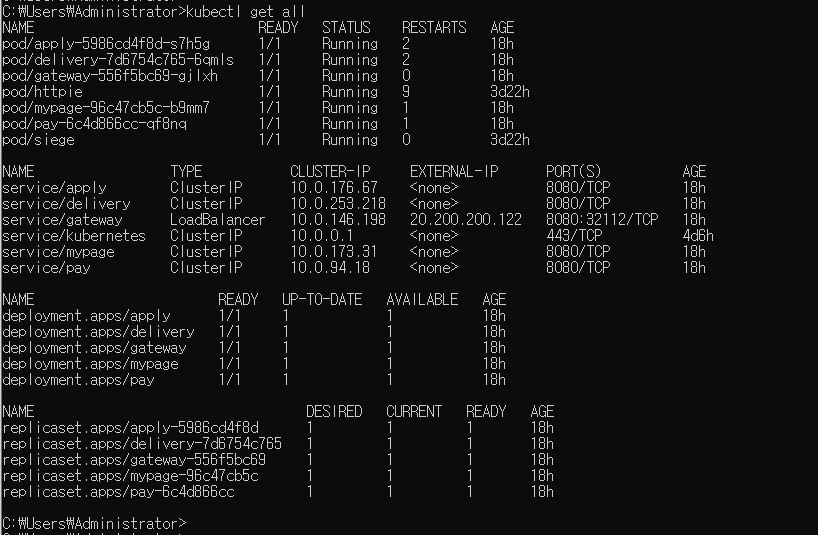
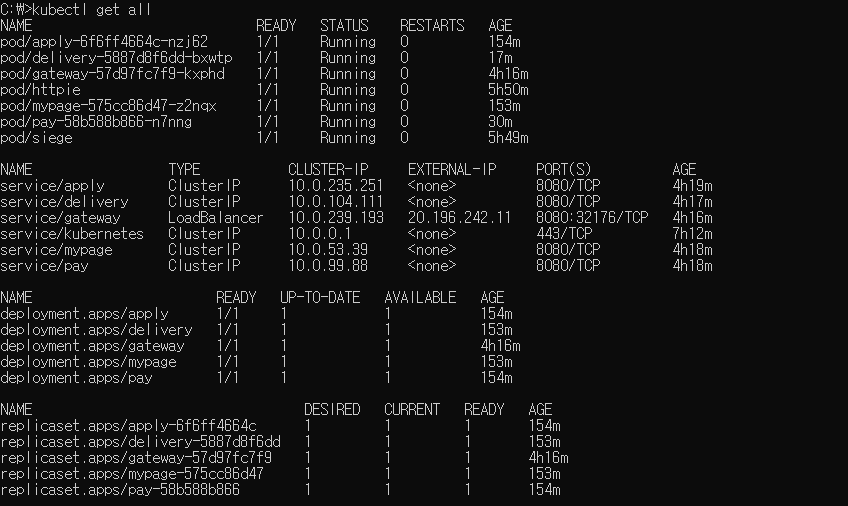
333

Changed region(s): [[0.0, 0.0, 0.4279, 1.0], [0.3056, 0.0, 0.8863, 0.9783], [0.4584, 0.7411, 0.5196, 0.83]]

diff --git a/README.md b/README.md
@@ -655,9 +655,26 @@ kubectl get configmap servicetype -o yaml
 ```
 ![image](https://github.com/jinmojeon/elearningStudentApply/blob/main/Images/7-1-configmap.png)
 
+
+**Apply 마이크로 서비스의 Apply.java**
+```java 
+@Entity
+@Table(name="Apply_table")
+public class Apply {
+    ...
+    @PostPersist
+    public void onPostPersist(){
+        String cfgServiceType = System.getenv("CFG_SERVICE_TYPE");
+        if(cfgServiceType == null) cfgServiceType = "STORE";
+        System.out.println("################## CFG_SERVICE_TYPE: " + cfgServiceType);
+    }
+    ...
+}
+```
+
 * Apply 데이터 1건 추가 후 로그 확인
 ```
-kubectl logs {pod ID}
+kubectl logs -f {pod ID}
 ```
 ![image](https://github.com/jinmojeon/elearningStudentApply/blob/main/Images/7-2-configmap-print.png)
 
@@ -688,75 +705,39 @@ cd gateway
 mvn package
 ```
 
-* Azure 레지스트리에 도커 이미지 push, deploy, 서비스생성(방법1 : yml파일 이용한 deploy)
+* Azure 레지스트리에 도커 이미지 push, deploy, 서비스생성(yaml파일 이용한 deploy)
 ```
 cd .. 
 cd Apply
-az acr build --registry skteam33 --image skteam33.azurecr.io/apply:v1 .
+az acr build --registry grp01 --image grp01.azurecr.io/apply:v1 .
 kubectl apply -f kubernetes/deployment.yml 
 kubectl apply -f kubernetes/service.yaml 
 
 cd .. 
 cd Pay
-az acr build --registry skteam33 --image skteam33.azurecr.io/pay:v1 .
+az acr build --registry grp01 --image grp01.azurecr.io/pay:v1 .
 kubectl apply -f kubernetes/deployment.yml 
 kubectl apply -f kubernetes/service.yaml 
 
 cd .. 
 cd Delivery
-az acr build --registry skteam33 --image skteam33.azurecr.io/delivery:v1 .
+az acr build --registry grp01 --image grp01.azurecr.io/delivery:v1 .
 kubectl apply -f kubernetes/deployment.yml 
 kubectl apply -f kubernetes/service.yaml 
 
 cd .. 
 cd MyPage
-az acr build --registry skteam33 --image skteam33.azurecr.io/mypage:v1 .
+az acr build --registry grp01 --image grp01.azurecr.io/mypage:v1 .
 kubectl apply -f kubernetes/deployment.yml 
 kubectl apply -f kubernetes/service.yaml 
 
 cd .. 
 cd gateway
-az acr build --registry skteam33 --image skteam33.azurecr.io/gateway:v1 .
+az acr build --registry grp01 --image grp01.azurecr.io/gateway:v1 .
 kubectl apply -f kubernetes/deployment.yml 
 kubectl apply -f kubernetes/service.yaml 
 ```
 
-
-* Azure 레지스트리에 도커 이미지 push, deploy, 서비스생성(방법2)
-```
-cd ..
-cd Apply
-az acr build --registry skteam33 --image skteam33.azurecr.io/apply:v1 .
-kubectl create deploy apply --image=skteam33.azurecr.io/apply:v1
-kubectl expose deploy apply --type=ClusterIP --port=8080
-
-cd .. 
-cd Pay
-az acr build --registry skteam33 --image skteam33.azurecr.io/pay:v1 .
-kubectl create deploy pay --image=skteam33.azurecr.io/pay:v1
-kubectl expose deploy pay --type=ClusterIP --port=8080
-
-
-cd .. 
-cd Delivery
-az acr build --registry skteam33 --image skteam33.azurecr.io/delivery:v1 .
-kubectl create deploy delivery --image=skteam33.azurecr.io/delivery:v1
-kubectl expose deploy delivery --type=ClusterIP --port=8080
-
-cd .. 
-cd MyPage
-az acr build --registry skteam33 --image skteam33.azurecr.io/mypage:v1 .
-kubectl create deploy mypage --image=skteam33.azurecr.io/mypage:v1
-kubectl expose deploy mypage --type=ClusterIP --port=8080
-
-cd .. 
-cd gateway
-az acr build --registry skteam33 --image skteam33.azurecr.io/gateway:v1 .
-kubectl create deploy gateway --image=skteam33.azurecr.io/gateway:v1
-kubectl expose deploy gateway --type=LoadBalancer --port=8080
-
-kubectl logs {pod명}
-```
 * Service, Pod, Deploy 상태 확인
 ![image](https://github.com/jinmojeon/elearningStudentApply/blob/main/Images/7-3-getall.png)
 
@@ -789,7 +770,7 @@ spec:
     spec:
       containers:
         - name: apply
-          image: skteam33.azurecr.io/apply:v2
+          image: grp01.azurecr.io/apply:v2
           ports:
             - containerPort: 8080
           env:
@@ -820,7 +801,7 @@ spec:
 ## 서킷 브레이킹
 * 서킷 브레이킹 프레임워크의 선택: Spring FeignClient + Hystrix 옵션을 사용하여 구현함
 * Apply -> Pay 와의 Req/Res 연결에서 요청이 과도한 경우 CirCuit Breaker 통한 격리
-* Hystrix 를 설정: 요청처리 쓰레드에서 처리시간이 610 밀리가 넘어서기 시작하여 어느정도 유지되면 CB 회로가 열리도록 (요청을 빠르게 실패처리, 차단) 설정
+* Hystrix 를 설정: 요청처리 쓰레드에서 처리시간이 610 밀리가 넘어서기 시작하여 어느정도 유지되면 CB 회로가 닫히도록 (요청을 빠르게 실패처리, 차단) 설정
 
 ```yaml
 # Apply서비스 application.yml
@@ -871,14 +852,17 @@ cd C:\Lv2Assessment\Source\elearningStudentApply\Util\siege\kubernetes
 kubectl apply -f deployment.yml
 ```
 
-* 부하테스터 siege 툴을 통한 서킷 브레이커 동작 확인: 동시사용자 50명 60초 동안 실시
+* 부하테스터 siege 툴을 통한 서킷 브레이커 동작 확인: 동시사용자 100명 60초 동안 실시
 ```
 kubectl exec -it pod/siege -c siege -- /bin/bash
-siege -c50 -t60S  -v --content-type "application/json" 'http://{EXTERNAL-IP}:8080/applies POST {"studentId":"test123", "bookId":"bok123", "qty": "11", "amount":"2000"}'
-siege -c50 -t60S  -v --content-type "application/json" 'http://20.200.207.89:8080/applies POST {"studentId":"test123", "bookId":"bok123", "qty": "11", "amount":"2000"}'
+siege -c100 -t60S  -v --content-type "application/json" 'http://{EXTERNAL-IP}:8080/applies POST {"studentId":"test123", "bookId":"bok123", "qty": "11", "amount":"2000"}'
+siege –c100 –t60S  -v --content-type "application/json" 'http://20.196.242.11:8080/applies POST {"studentId":"test123", "bookId":"bok123", "qty": "11", "amount":"2000"}'
 ```
 ![image](https://github.com/jinmojeon/elearningStudentApply/blob/main/Images/7-4-siege.png)
+
 ![image](https://github.com/jinmojeon/elearningStudentApply/blob/main/Images/7-5-histrixl.png)
+
+![image](https://github.com/jinmojeon/elearningStudentApply/blob/main/Images/7-5-1-siege-result.png)
 
 
 
@@ -897,7 +881,7 @@ siege -c50 -t60S  -v --content-type "application/json" 'http://20.200.207.89:808
 ```
 cd C:\Lv2Assessment\Source\elearningStudentApply\Apply
 mvn package
-az acr build --registry skteam33 --image skteam33.azurecr.io/apply:v1 .
+az acr build --registry grp01 --image grp01.azurecr.io/apply:v1 .
 kubectl apply -f kubernetes/deployment.yml
 kubectl apply -f kubernetes/service.yaml
 
@@ -971,7 +955,7 @@ kubectl get pod
 ```yaml
 cd C:\Lv2Assessment\Source\elearningStudentApply\Delivery
 mvn package
-az acr build --registry skteam33 --image skteam33.azurecr.io/delivery:v1 .
+az acr build --registry grp01 --image grp01.azurecr.io/delivery:v1 .
 kubectl apply -f kubernetes/deployment.yml
 ```
 
